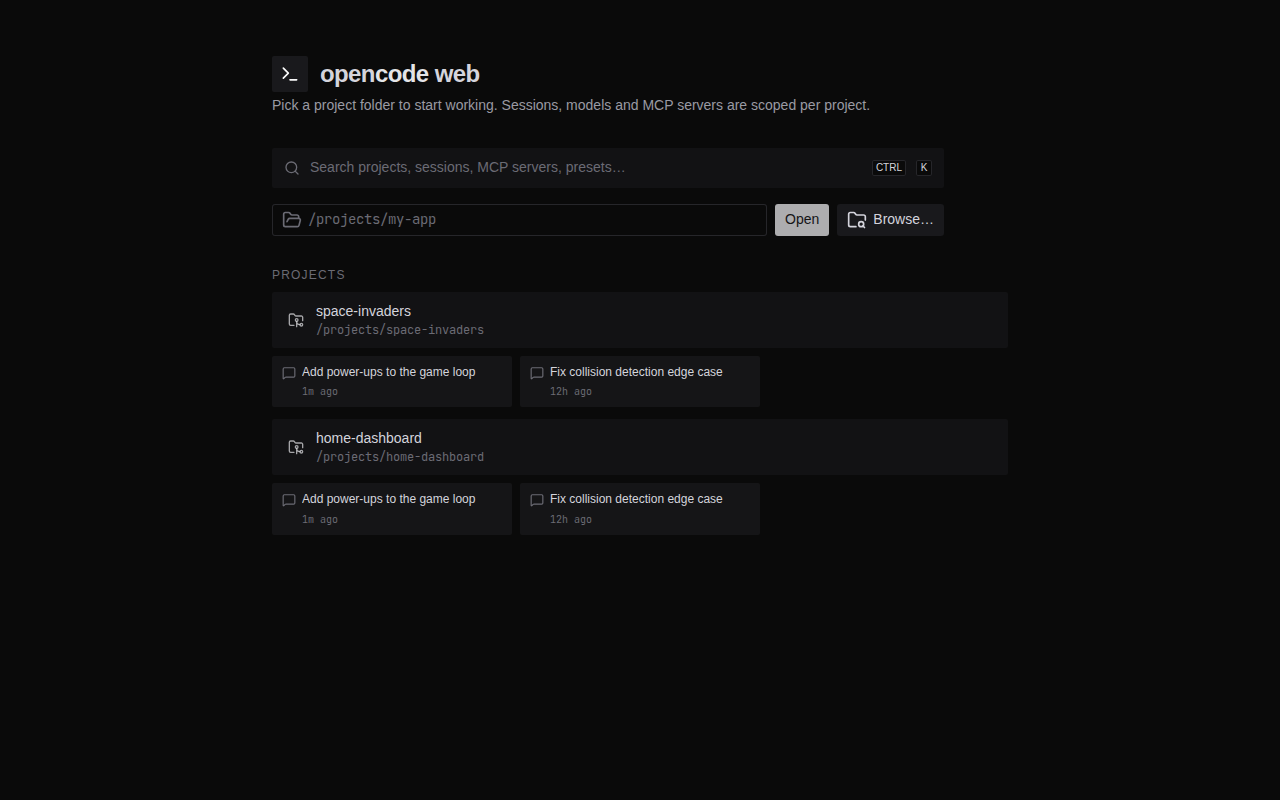
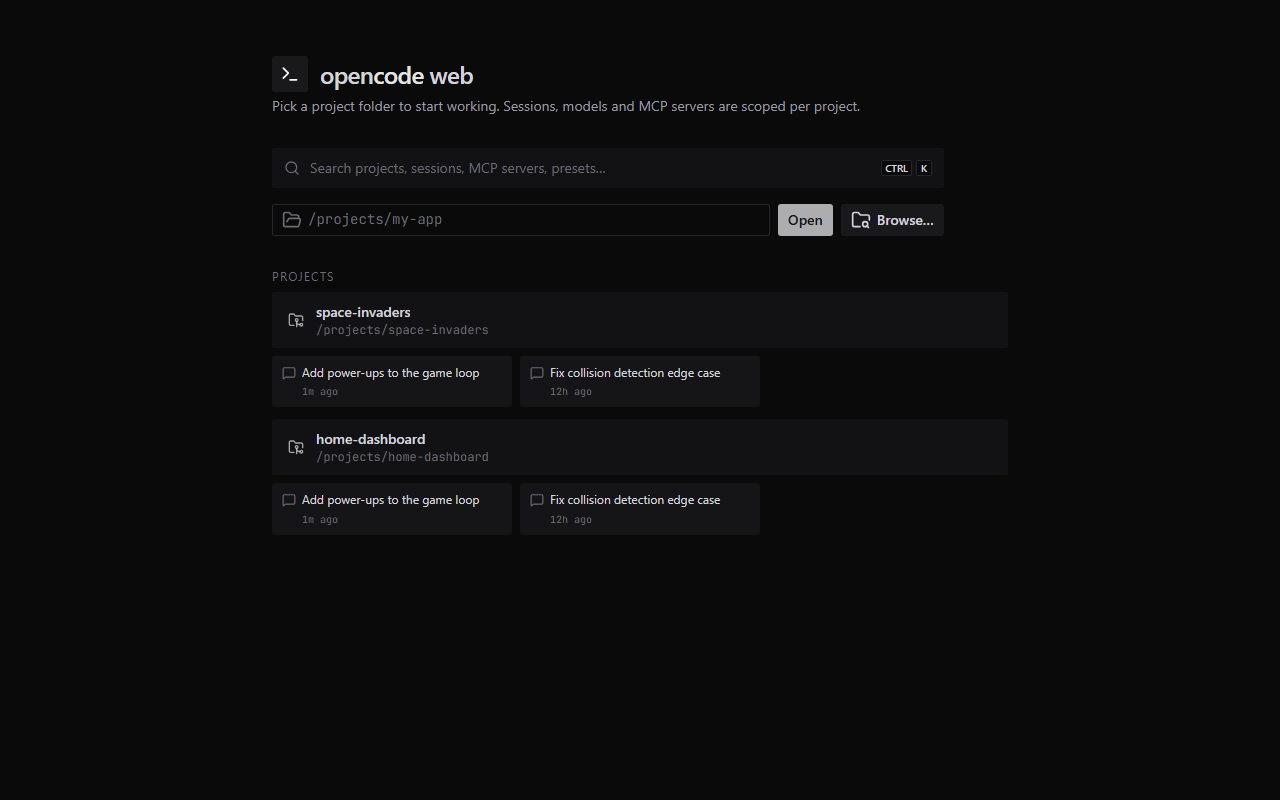
test(e2e): settled README screenshots, MCP apps and phone captures

diff --git a/tests/e2e/app.spec.ts b/tests/e2e/app.spec.ts
@@ -1,4 +1,5 @@
 import { expect, test } from '@playwright/test'
+import { shot } from './shot'
 
 // dir param for '/projects/space-invaders' (base64url)
 const DIR = Buffer.from('/projects/space-invaders').toString('base64url')
@@ -8,7 +9,7 @@ test('home page lists projects from the server', async ({ page }) => {
   await expect(page.getByRole('heading', { name: /opencode\s*web/i })).toBeVisible()
   await expect(page.getByText('space-invaders').first()).toBeVisible()
   await expect(page.getByText('home-dashboard').first()).toBeVisible()
-  if (process.env.SCREENSHOTS) await page.screenshot({ path: 'docs/screenshots/home.png' })
+  await shot(page, 'home')
 })
 
 test('project view shows sessions and chat with parts', async ({ page }) => {
@@ -28,7 +29,7 @@ test('project view shows sessions and chat with parts', async ({ page }) => {
   await expect(page.getByText('Think level')).toBeVisible()
   await expect(page.getByText('project default')).toBeVisible()
 
-  if (process.env.SCREENSHOTS) await page.screenshot({ path: 'docs/screenshots/chat.png' })
+  await shot(page, 'chat')
 })
 
 test('model selector shows providers, details and configure entry', async ({ page }) => {
@@ -46,7 +47,7 @@ test('mcp page lists servers with toggles', async ({ page }) => {
   await expect(page.getByText('context7', { exact: true })).toBeVisible()
   await expect(page.getByText('home-assistant', { exact: true })).toBeVisible()
   await expect(page.getByText('disabled').first()).toBeVisible()
-  if (process.env.SCREENSHOTS) await page.screenshot({ path: 'docs/screenshots/mcp.png' })
+  await shot(page, 'mcp')
 })
 
 test('mcp page discovers tools of local (stdio) servers', async ({ page }) => {
@@ -82,5 +83,5 @@ test('mobile viewport shows hamburger menu and prompt box', async ({ page }) => 
   await page.setViewportSize({ width: 390, height: 844 })
   await page.goto(`/p/${DIR}/session/ses_mock1`)
   await expect(page.getByPlaceholder(/Ask opencode/)).toBeVisible()
-  if (process.env.SCREENSHOTS) await page.screenshot({ path: 'docs/screenshots/mobile.png' })
+  await shot(page, 'mobile')
 })

diff --git a/tests/e2e/mcp-ui.spec.ts b/tests/e2e/mcp-ui.spec.ts
@@ -1,4 +1,5 @@
 import { expect, test } from '@playwright/test'
+import { shot } from './shot'
 
 // Every MCP UI flavour the chat renders, end to end against the mock opencode
 // server and this app's own /mcp-demo MCP server:
@@ -17,6 +18,8 @@ test('MCP Apps template handshakes and renders the tool result', async ({ page }
   await expect(app.getByText('+12.5%')).toBeVisible()
   // the host acknowledged the app: loaded badge + fade-in
   await expect(page.locator('iframe[title="ui://opencode-web-demo/app-template"]')).toHaveClass(/opacity-100/)
+  await expect(page.locator('iframe[title="ui://opencode-web-demo/remote-dom"]')).toHaveClass(/opacity-100/)
+  await shot(page, 'mcp-apps')
 })
 
 test('remote-dom component renders and reacts to presses', async ({ page }) => {
@@ -54,6 +57,7 @@ test('apps open fullscreen / in the side panel via URL state and come back', asy
   // the viewer copy handshakes again and renders the same data
   const viewer = page.frameLocator('iframe[title="ui://opencode-web-demo/app-template"]').last()
   await expect(viewer.getByText('Revenue')).toBeVisible()
+  await shot(page, 'app-fullscreen')
 
   // dock to the side panel: same persistent iframe, different frame
   await page.getByRole('button', { name: 'Dock to side panel' }).click()
@@ -98,4 +102,14 @@ test('mcp-call recovers the app template and structured content', async ({ reque
   expect(body.app.html).toContain('ui/initialize')
   expect(body.structuredContent.html).toContain('Salamanca')
   expect(body.resources[0].html).toContain('31')
+})
+
+test('apps render inline on a phone and fit the screen', async ({ page }) => {
+  await page.setViewportSize({ width: 390, height: 844 })
+  await page.goto(SESSION)
+  const frame = page.frameLocator('iframe[title="ui://opencode-web-demo/app-template"]')
+  await expect(frame.getByText('Revenue')).toBeVisible()
+  const width = await page.evaluate(() => document.documentElement.scrollWidth)
+  expect(width).toBeLessThanOrEqual(390)
+  await shot(page, 'mobile-apps')
 })

diff --git a/tests/e2e/shot.ts b/tests/e2e/shot.ts
@@ -1,0 +1,13 @@
+import { expect, type Page } from '@playwright/test'
+
+/**
+ * README screenshot (only with SCREENSHOTS=1): waits for every MCP app to
+ * finish loading and freezes CSS transitions, so no frame is caught mid-fade.
+ */
+export async function shot(page: Page, name: string) {
+  if (!process.env.SCREENSHOTS) return
+  await expect(page.getByText('Loading app…')).toHaveCount(0, { timeout: 20000 })
+  await page.evaluate(() => document.fonts.ready)
+  await page.waitForTimeout(400)
+  await page.screenshot({ path: `docs/screenshots/${name}.png`, animations: 'disabled' })
+}
